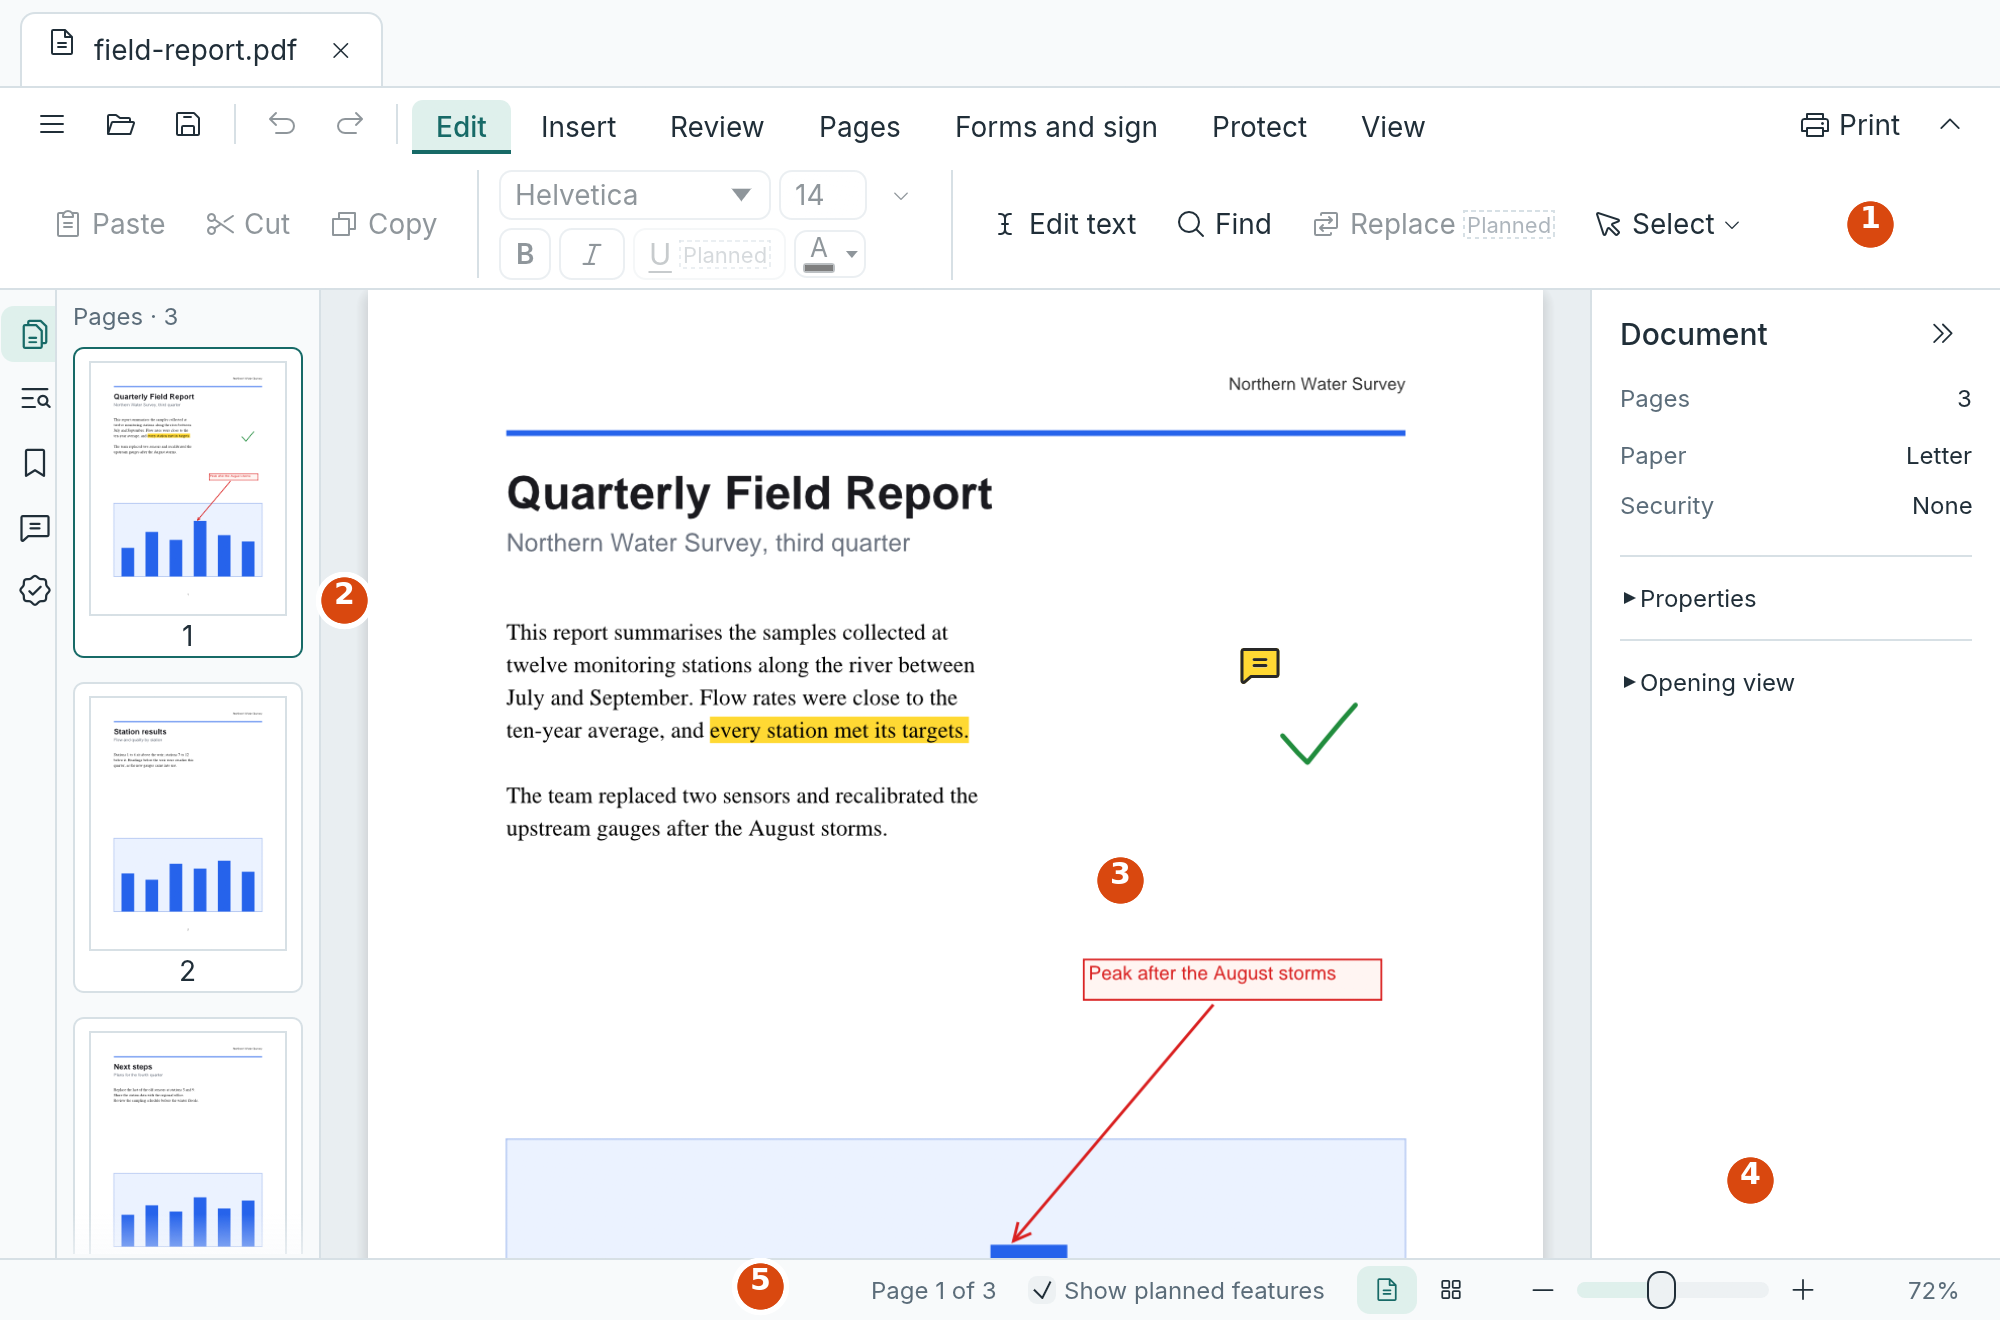
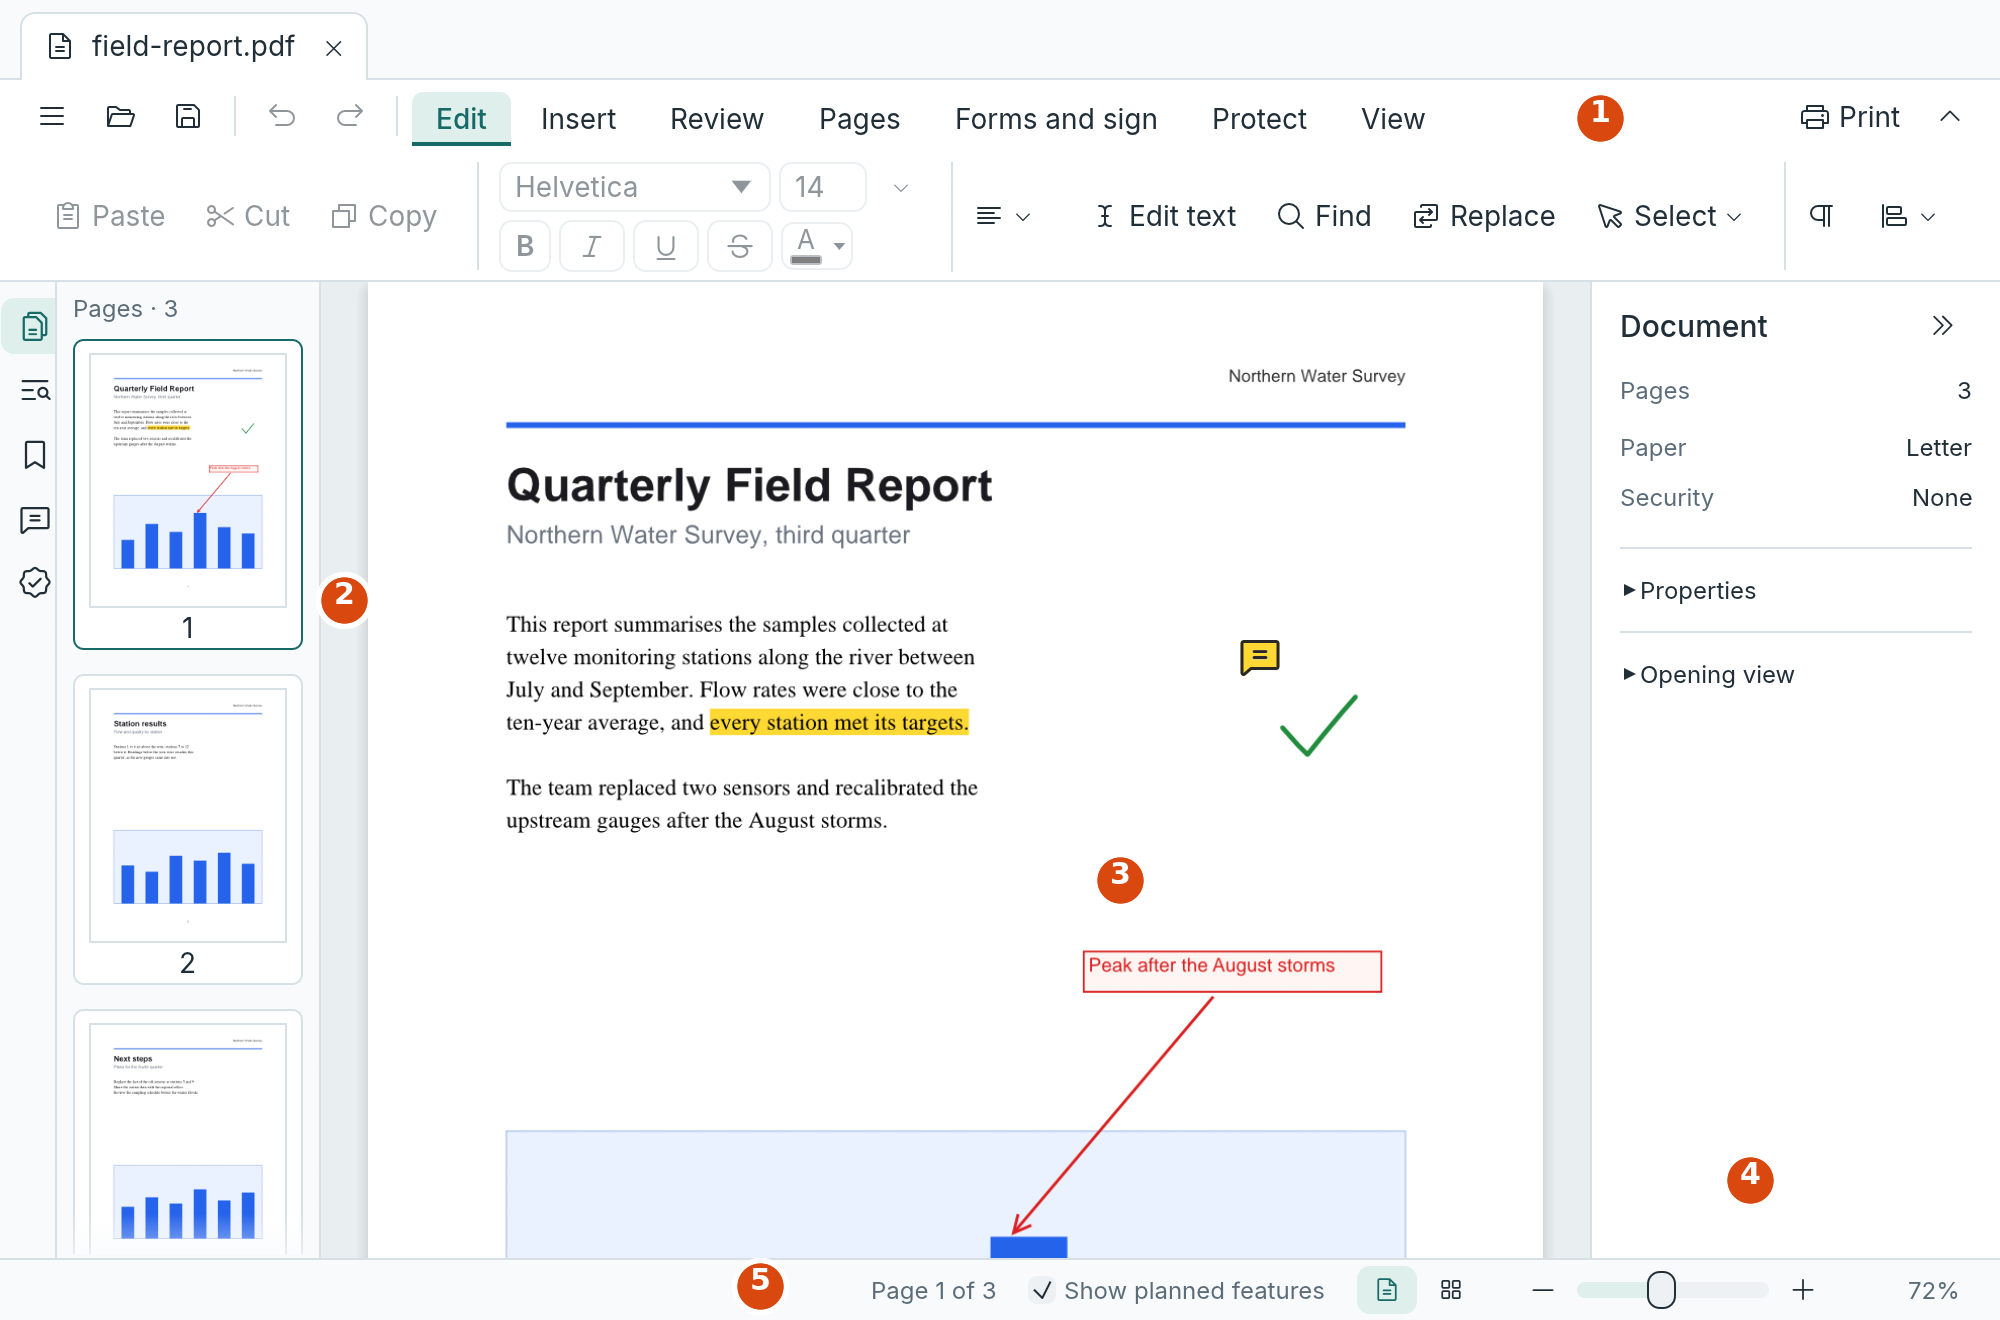
Update screen caps in docs

diff --git a/docs/first-steps.md b/docs/first-steps.md
@@ -25,7 +25,8 @@ From a terminal, `limarepdf report.pdf --page 3` opens a document at page 3.
 1. **The commands**, under the document's tab. At the left, the File menu ☰, which holds every command, then
    Open, Save, Undo and Redo; at the right, Print. In between are the names **Edit**, **Insert**, **Review**,
    **Pages**, **Forms and sign**, **Protect** and **View**: click one to show its buttons below. Edit has copying,
-   the font and finding text; Insert adds text, pictures, headers and watermarks; Review has comments and markup;
+   the font, alignment, editing text, finding and replacing, and lining up objects; Insert adds text, pictures,
+   headers and watermarks; Review has comments and markup;
    Pages rotates, removes, adds and splits pages, and Organise shows them all as cards to put in order; Forms and
    sign fills forms and signs; Protect redacts and sets
    passwords; View has zoom, page layout and how the app looks. Hover over a button to see what it does; a greyed
